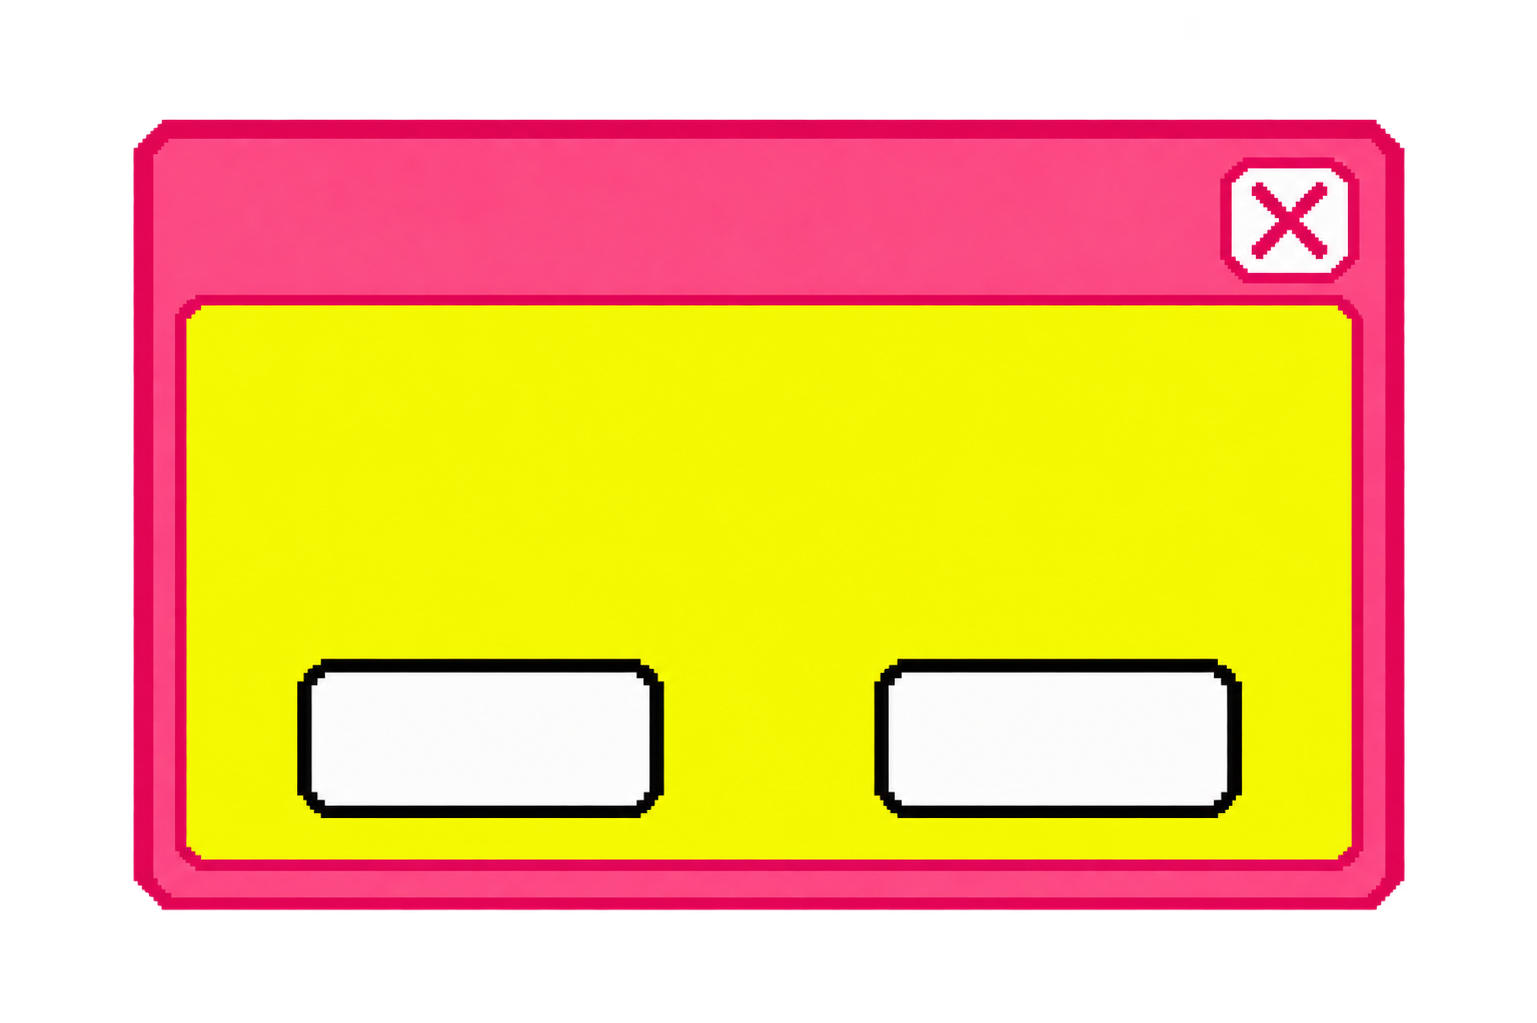
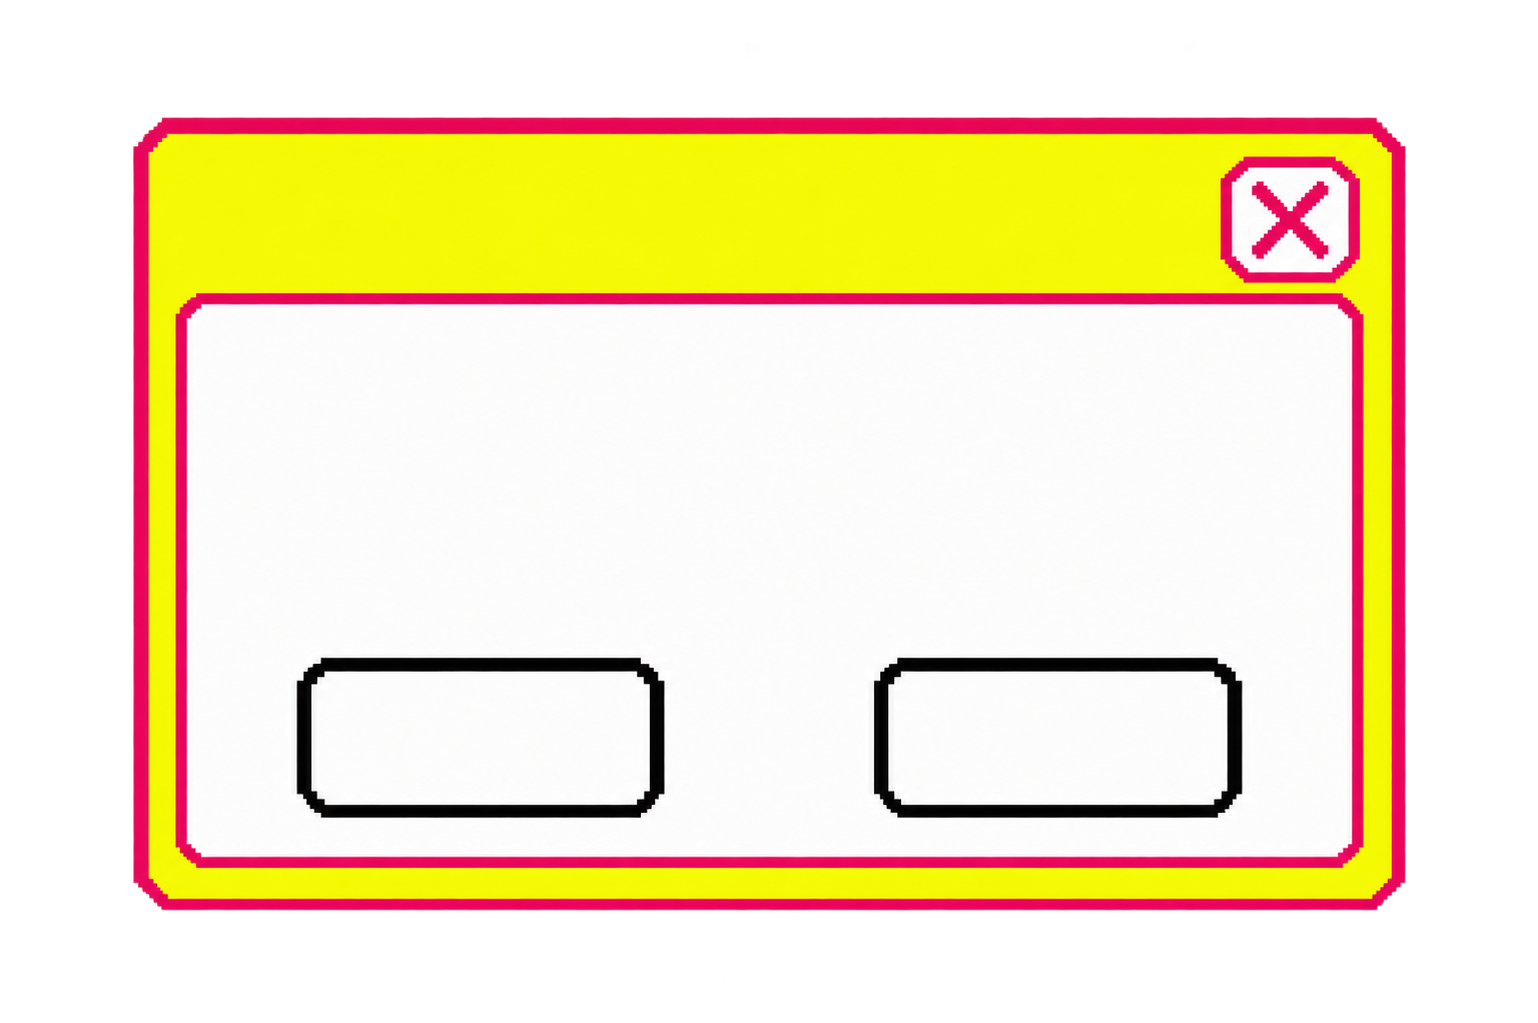
Create a retro Photo Booth camera frame with brand stickers and correct popup colors

diff --git a/src/home-camera.ts b/src/home-camera.ts
@@ -1,16 +1,44 @@
+import stickersUrl from './assets/camera-stickers.png'
+import { loadImage, drawFit } from './play-assets'
+import { cutout } from './badge-candies'
+
 export function createHomeCamera(host: HTMLElement) {
   host.innerHTML = `<section class="home-camera" aria-label="카메라 촬영">
     <a class="camera-close" href="#home" aria-label="카메라 닫기">✕</a>
-    <h1>PHOTO TIME!</h1><div class="home-camera-view"><video autoplay muted playsinline></video><img alt="촬영한 사진" hidden></div>
-    <p role="status"></p><div class="camera-actions"><button class="play-button pink-button" data-shoot disabled>촬영 ✦</button><button class="play-button" data-save hidden>사진 저장 ↓</button></div>
+    <header class="camera-titlebar"><span aria-hidden="true">● ● ●</span><h1>Photo Booth</h1></header><div class="home-camera-view"><video autoplay muted playsinline></video><img alt="촬영한 사진" hidden><canvas class="camera-sticker-layer" aria-hidden="true"></canvas></div>
+    <p role="status"></p><div class="camera-actions"><button class="camera-shutter" data-shoot disabled aria-label="촬영"><svg viewBox="0 0 24 24" aria-hidden="true"><path fill="currentColor" d="M8 4h8l2 3h3v13H3V7h3zm4 5a4 4 0 1 0 0 8 4 4 0 0 0 0-8z"/></svg></button><button class="play-button" data-save hidden>SAVE</button></div>
     <button class="text-button" data-retry hidden>카메라 다시 연결 ↻</button></section>`
   const video = host.querySelector<HTMLVideoElement>('video')!
   const image = host.querySelector<HTMLImageElement>('img')!
   const status = host.querySelector<HTMLElement>('[role="status"]')!
   const shoot = host.querySelector<HTMLButtonElement>('[data-shoot]')!
   const save = host.querySelector<HTMLButtonElement>('[data-save]')!
+  const view = host.querySelector<HTMLElement>('.home-camera-view')!
+  const overlay = host.querySelector<HTMLCanvasElement>('.camera-sticker-layer')!
+  const stickerImages: HTMLCanvasElement[] = []
+  const placements = [[0, .01, .29, 0], [.04, .04, .29, 0], [.73, .2, .27, 1], [.69, .49, .29, 0], [.32, .72, .24, 1], [.56, .76, .28, 1]]
+  function decorate(ctx: CanvasRenderingContext2D, w: number, h: number) {
+    for (const [x, y, size, kind] of placements) {
+      const sticker = stickerImages[kind!]
+      if (sticker) drawFit(ctx, sticker, x! * w, y! * h, size! * w, size! * w)
+    }
+  }
+  function resizeOverlay() {
+    overlay.width = Math.max(1, view.clientWidth * 2); overlay.height = Math.max(1, view.clientHeight * 2)
+    decorate(overlay.getContext('2d')!, overlay.width, overlay.height)
+  }
+  const observer = new ResizeObserver(resizeOverlay); observer.observe(view)
   const retry = host.querySelector<HTMLButtonElement>('[data-retry]')!
   let stream: MediaStream | null = null, disposed = false, photo: HTMLCanvasElement | null = null, request = 0
+  void loadImage(stickersUrl).then(source => {
+    if (disposed) return
+    for (let i = 0; i < 2; i++) {
+      const mesh = cutout(source, [i / 2, 0, .5, 1])!
+      stickerImages.push(mesh.material.map!.image as HTMLCanvasElement)
+      mesh.geometry.dispose(); mesh.material.map!.dispose(); mesh.material.dispose()
+    }
+    resizeOverlay()
+  }).catch(() => { /* Camera still works if decorations cannot load. */ })
   function stop() { stream?.getTracks().forEach(track => track.stop()); stream = null; video.srcObject = null }
   async function connect() {
     const current = ++request
@@ -22,7 +50,7 @@ export function createHomeCamera(host: HTMLElement) {
       stream = incoming; video.srcObject = incoming; await video.play()
       if (disposed || current !== request) return
       image.hidden = true; video.hidden = false; save.hidden = true; photo = null
-      shoot.disabled = false; shoot.textContent = '촬영 ✦'
+      shoot.disabled = false; shoot.setAttribute('aria-label', '촬영'); overlay.hidden = false
       status.textContent = ''
     } catch {
       if (disposed || current !== request) return
@@ -33,11 +61,14 @@ export function createHomeCamera(host: HTMLElement) {
   shoot.addEventListener('click', () => {
     if (photo) { void connect(); return }
     if (!video.videoWidth || !video.videoHeight) return
-    photo = document.createElement('canvas'); photo.width = video.videoWidth; photo.height = video.videoHeight
+    photo = document.createElement('canvas'); photo.width = 1080; photo.height = Math.round(1080 * view.clientHeight / view.clientWidth)
     const ctx = photo.getContext('2d')!
-    ctx.translate(photo.width, 0); ctx.scale(-1, 1); ctx.drawImage(video, 0, 0)
+    const scale = Math.max(photo.width / video.videoWidth, photo.height / video.videoHeight)
+    ctx.save(); ctx.translate(photo.width, 0); ctx.scale(-1, 1)
+    ctx.drawImage(video, (photo.width - video.videoWidth * scale) / 2, (photo.height - video.videoHeight * scale) / 2, video.videoWidth * scale, video.videoHeight * scale)
+    ctx.restore(); decorate(ctx, photo.width, photo.height); overlay.hidden = true
     image.src = photo.toDataURL('image/png'); image.hidden = false; video.hidden = true
-    stop(); save.hidden = false; shoot.textContent = '다시 촬영 ↻'; status.textContent = '찰칵! 사진을 저장할 수 있어요.'
+    stop(); save.hidden = false; shoot.setAttribute('aria-label', '다시 촬영'); status.textContent = ''
   })
   save.addEventListener('click', () => photo?.toBlob(blob => {
     if (!blob || disposed) return
@@ -47,5 +78,5 @@ export function createHomeCamera(host: HTMLElement) {
   }, 'image/png'))
   retry.addEventListener('click', () => { void connect() })
   void connect()
-  return () => { disposed = true; request++; stop() }
+  return () => { disposed = true; request++; stop(); observer.disconnect() }
 }

diff --git a/src/style.css b/src/style.css
@@ -418,3 +418,17 @@ html[data-view='camera'] .play-screen::before { display: none; }
 
 html[data-view='game'] .brand-bar { display: flex; top: auto; bottom: max(16px, env(safe-area-inset-bottom)); left: auto; right: max(16px, env(safe-area-inset-right)); }
 html[data-view='game'] .brand-home { display: none; }
+
+.home-camera { width: min(720px, calc(100vw - 48px)); padding: 8px; background: #e83796; border: 0; box-shadow: 5px 5px #17171755; }
+.camera-titlebar { display: flex; align-items: center; gap: 10px; height: 26px; padding: 0 10px; background: linear-gradient(#fff, #d6d6d6); border-radius: 7px 7px 0 0; }
+.camera-titlebar > span { color: #888; font-size: 10px; letter-spacing: 2px; }
+.home-camera .camera-titlebar h1 { margin: 0; color: #333; font: 700 11px Arial; }
+.home-camera-view { position: relative; height: auto; aspect-ratio: 4 / 3; max-height: 65dvh; }
+.camera-sticker-layer { position: absolute; inset: 0; width: 100%; height: 100%; pointer-events: none; }
+.home-camera .camera-actions { display: grid; grid-template-columns: 1fr 1fr 1fr; align-items: center; height: 54px; padding: 0 12px; background: #e1e1e1; border-radius: 0 0 6px 6px; }
+.camera-shutter { grid-column: 2; justify-self: center; display: grid; place-items: center; width: 38px; height: 38px; padding: 7px; border: 3px solid #fff; border-radius: 50%; background: #f21c2c; color: #fff; cursor: pointer; }
+.camera-shutter svg { width: 100%; height: 100%; }
+.camera-shutter:disabled { opacity: .45; }
+.home-camera [data-save] { grid-column: 3; justify-self: end; min-height: 30px; padding: 5px 10px; font-size: 10px; box-shadow: none; }
+.home-camera p:empty { display: none; }
+.home-camera .camera-close { top: -12px; right: -12px; width: 28px; height: 28px; z-index: 2; font-size: 14px; }
